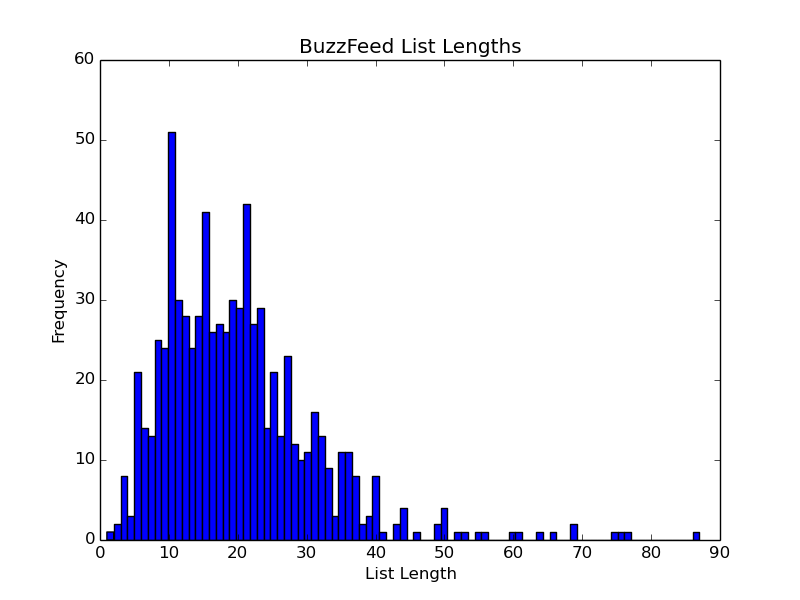
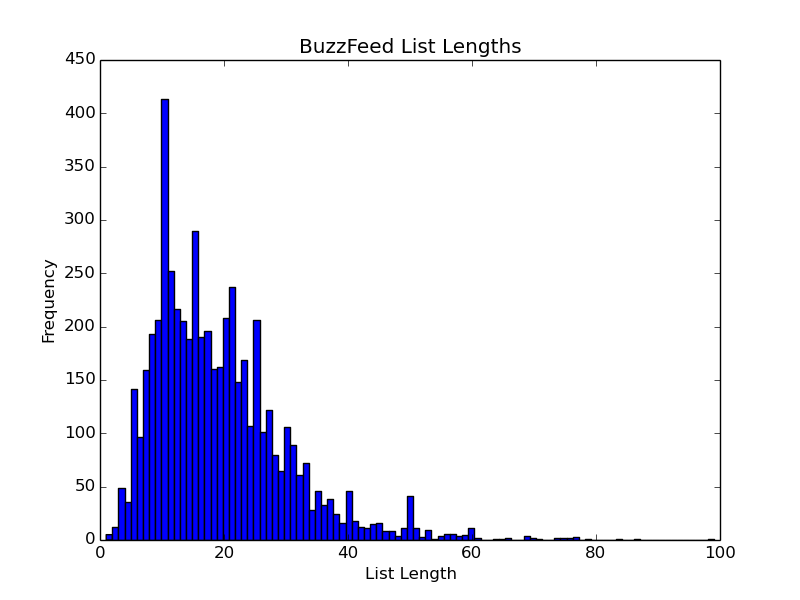
Updated listogram

diff --git a/noah-histicle.py b/noah-histicle.py
@@ -4,7 +4,7 @@ import json
 lengths = []
 lists = json.loads(open("results-confirmed.json","r").read())
 for l in lists:
-	lengths.append(l["expectedListLength"])
+	lengths.append(l["listLength"])
 
 #print lengths
 num_bins = max(lengths)-min(lengths)+1
